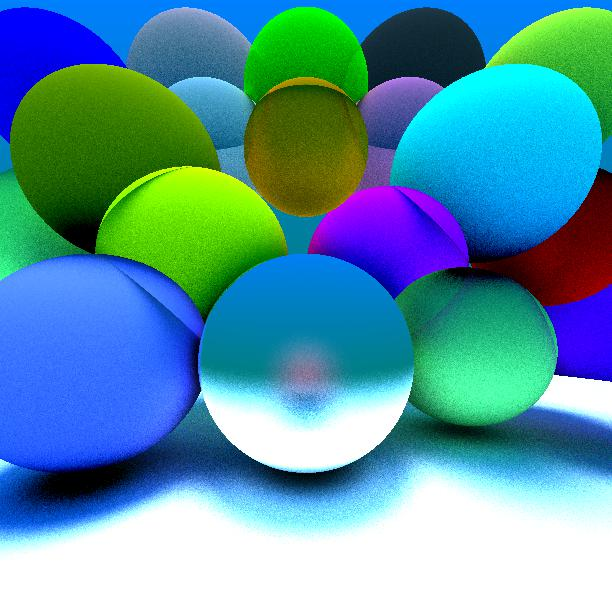
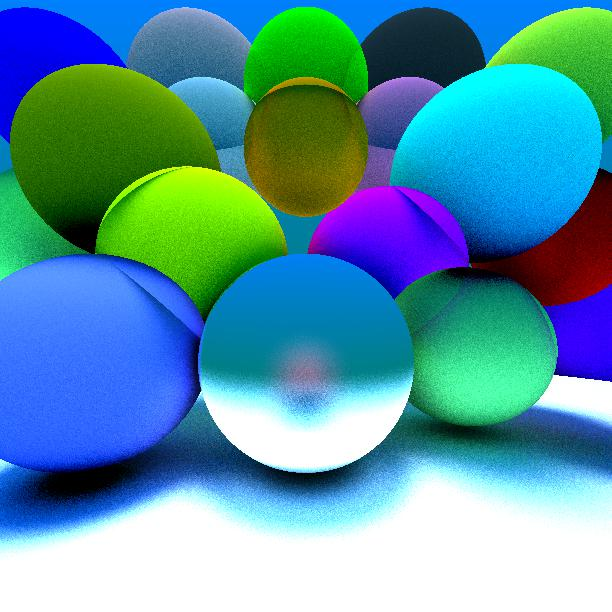
3rd commit

diff --git a/src/6sphere.py b/src/6sphere.py
@@ -4,30 +4,69 @@ from vec3 import Vec3#This is a class that was modified by Sean Groathouse
 from math import  sqrt
 import math
 
-width = 256
-height = 256
+width = 612
+height = 612
 radius1 = 1
-radius2 = 1
+radius2 = 1 # The radi of each sphere
 radius3 = 1
 radius4 = 98.5
 radius5 = 1
 radius6 = 1
 radius7 = 1
-origin = Vec3(0, 0, 0)
+radius8 = 1
+radius9 = 1
+radius10 = 1
+radius11 = 1
+radius12 = 1
+radius13 = 1
+radius14 = 1
+radius15 = 1
+radius16 = 1
+radius17 = 1
+radius18 = 1
+radius19 = 1
+radius20 = 1
+origin = Vec3(0, 0, 0) # The origin 
 center1 = Vec3(0, -0.5, -3)
 center2 = Vec3(2, -0.5, -4)
 center3 = Vec3(-2, -0.5, -3)
 center4 = Vec3(0, -100, 0)
-center5 = Vec3(0, 2.5, -4)
-center6 = Vec3(-1, 0.7, -3)
-center7 = Vec3(1, 0.7, -4)
-color1 = Vec3(1.0, 0.5, 0.5)
-color2 = Vec3(0.5, 1.0, 0.5)
-color3 = Vec3(0.5, 0.5, 1.0)
-color4 = Vec3(1.0, 1.0, 1.0)
-color5 = Vec3(1.0, 0.5, 0.0)
-color6 = Vec3(1.0, 1.0, 0.5)
-color7 = Vec3(1.0, 0.0, 1.0)
+center5 = Vec3(0, 2.5, -5)
+center6 = Vec3(-1.2, 0.5, -3.5)
+center7 = Vec3(1, 0.5, -4)
+center8 = Vec3(0, -0.5, 2)
+center9 = Vec3(2, 1.5, -3.5)
+center10 = Vec3(-2, 1.5, -3.5)
+center11 = Vec3(-1.5, 2.5, -5)
+center12 = Vec3(1.5, 2.5, -5)
+center13 = Vec3(-3.5, 3, -4.5)
+center14 = Vec3(-3.5, 1, -4.5)
+center15 = Vec3(3.5, 1, -4.5)
+center16 = Vec3(3.5, 3, -4.5)
+center17 = Vec3(0, 3.5, -5)
+center18 = Vec3(3.5, 0.0 ,-3.5)
+center19 = Vec3(-1.5, 3, -4.5)
+center20 = Vec3(1.5, 3, -4.5)
+color1 = Vec3(1.0, 0.5, 0.5) #Medium Red
+color2 = Vec3(0.5, 1.0, 0.5) #Medium Green
+color3 = Vec3(0.5, 0.5, 1.0) # Meduim BlueThe colors for each circle
+color4 = Vec3(1.0, 1.0, 1.0) #White
+color5 = Vec3(1.0, 0.5, 0.0) #Orange
+color6 = Vec3(1.0, 1.0, 0.0) #Yellow
+color7 = Vec3(1.0, 0.0, 1.0) #purple
+color8 = Vec3(1.0, 0.5, 0.5) #Medium Red
+color9 = Vec3(0.0, 1.0, 1.0) #Aqua
+color10 = Vec3(0.7, 0.6, 0.0) #Gold
+color11 = Vec3(0.7, 0.7, 0.7) #Silver
+color12 = Vec3(1.0, 0.4, 0.6) #Pink
+color13 = Vec3(0.0, 0.0, 1.0) #Pure Blue
+color14 = Vec3(0.4, 1.0, 0.4) #Light Green
+color15 = Vec3(1.0, 0.0, 0.0) #Pure Red
+color16 = Vec3(1.0, 1.0, 0.2) #light yellow
+color17 = Vec3(0.0, 1.0, 0.0) #pure green
+color18 = Vec3(0.5, 0.0, 1.0) # violet
+color19 = Vec3(1.0, 0.6, 0.6)
+color20 = Vec3(0.2, 0.2, 0.2)
 mirror1 = True
 mirror2 = False
 mirror3 = False
@@ -35,10 +74,23 @@ mirror4 = False
 mirror5 = False
 mirror6 = False
 mirror7 = False
-mirrorList = [mirror1, mirror2, mirror3, mirror4, mirror5, mirror6, mirror7]
-sphereCenterList = [center1, center2, center3, center4, center5, center6, center7]
-radiusList = [radius1, radius2, radius3, radius4, radius5, radius6, radius7]
-colorList = [color1, color2, color3, color4, color5, color6, color7]
+mirror8 = False
+mirror9 = False
+mirror10 = False
+mirror11 = False
+mirror12 = False
+mirror13 = False
+mirror14 = False
+mirror15 = False
+mirror16 = False
+mirror17 = False
+mirror18 = False
+mirror19 = False
+mirror20 = False
+mirrorList = [mirror1, mirror2, mirror3, mirror4, mirror5, mirror6, mirror7, mirror8, mirror9, mirror10, mirror11, mirror12, mirror13, mirror14, mirror15, mirror16, mirror17, mirror18, mirror19, mirror20]
+sphereCenterList = [center1, center2, center3, center4, center5, center6, center7, center8, center9, center10, center11, center12, center13, center14, center15, center16, center17, center18, center19, center20] #Radi, centers, mirrors and colors are stored in lists
+radiusList = [radius1, radius2, radius3, radius4, radius5, radius6, radius7, radius8, radius9, radius10, radius11, radius12, radius13, radius14, radius15, radius16, radius17, radius18, radius19, radius20]
+colorList = [color1, color2, color3, color4, color5, color6, color7, color8, color9, color10, color11, color12, color13, color14, color15, color16, color17, color18, color19, color20]
 sphere1 = Image.new('RGB', (width, height), 'white')
 sphere1.save('6spheres.jpg')
 

diff --git a/src/project.py b/src/project.py
@@ -185,10 +185,8 @@ for i in range(width):
             vector = Vec3(x, y, z)
             draw = ImageDraw.Draw(sphere1, 'RGB')
             raycolor += rayColor(Vec3(0,0,0), vector, 0)
-            #c = 1/ns
         raycolor *= (1.0/ns) 
         icolor = (int(raycolor[0] * 255), int(raycolor[1] * 255), int(raycolor[2] * 255))
-        print icolor
         sphere1.putpixel((i,j) , icolor)
 #computes one ray and determines what color it is, send several rays here
         
